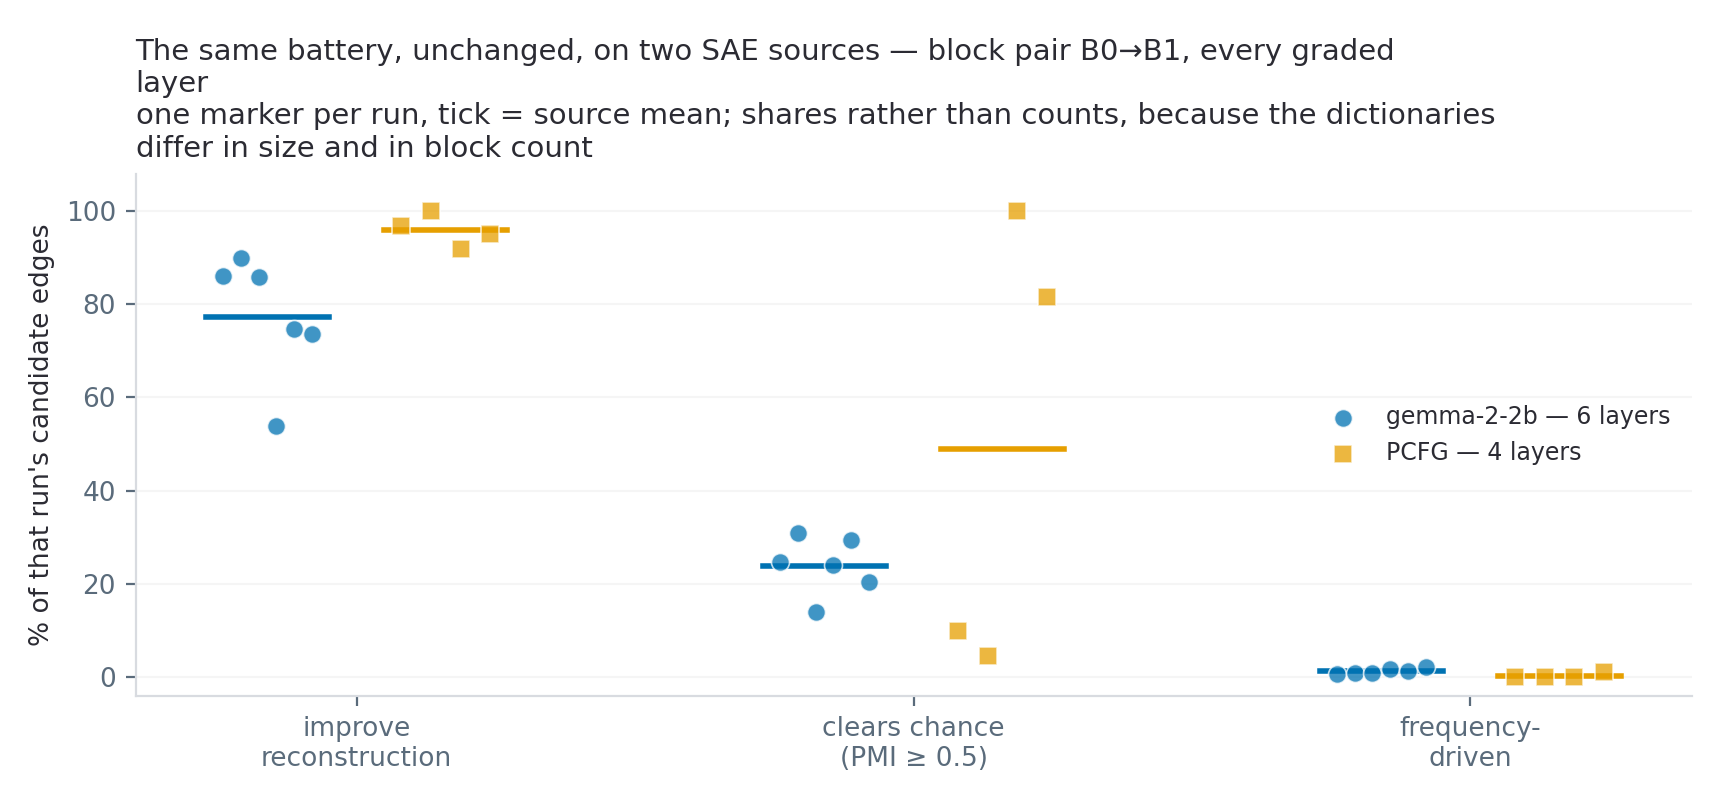
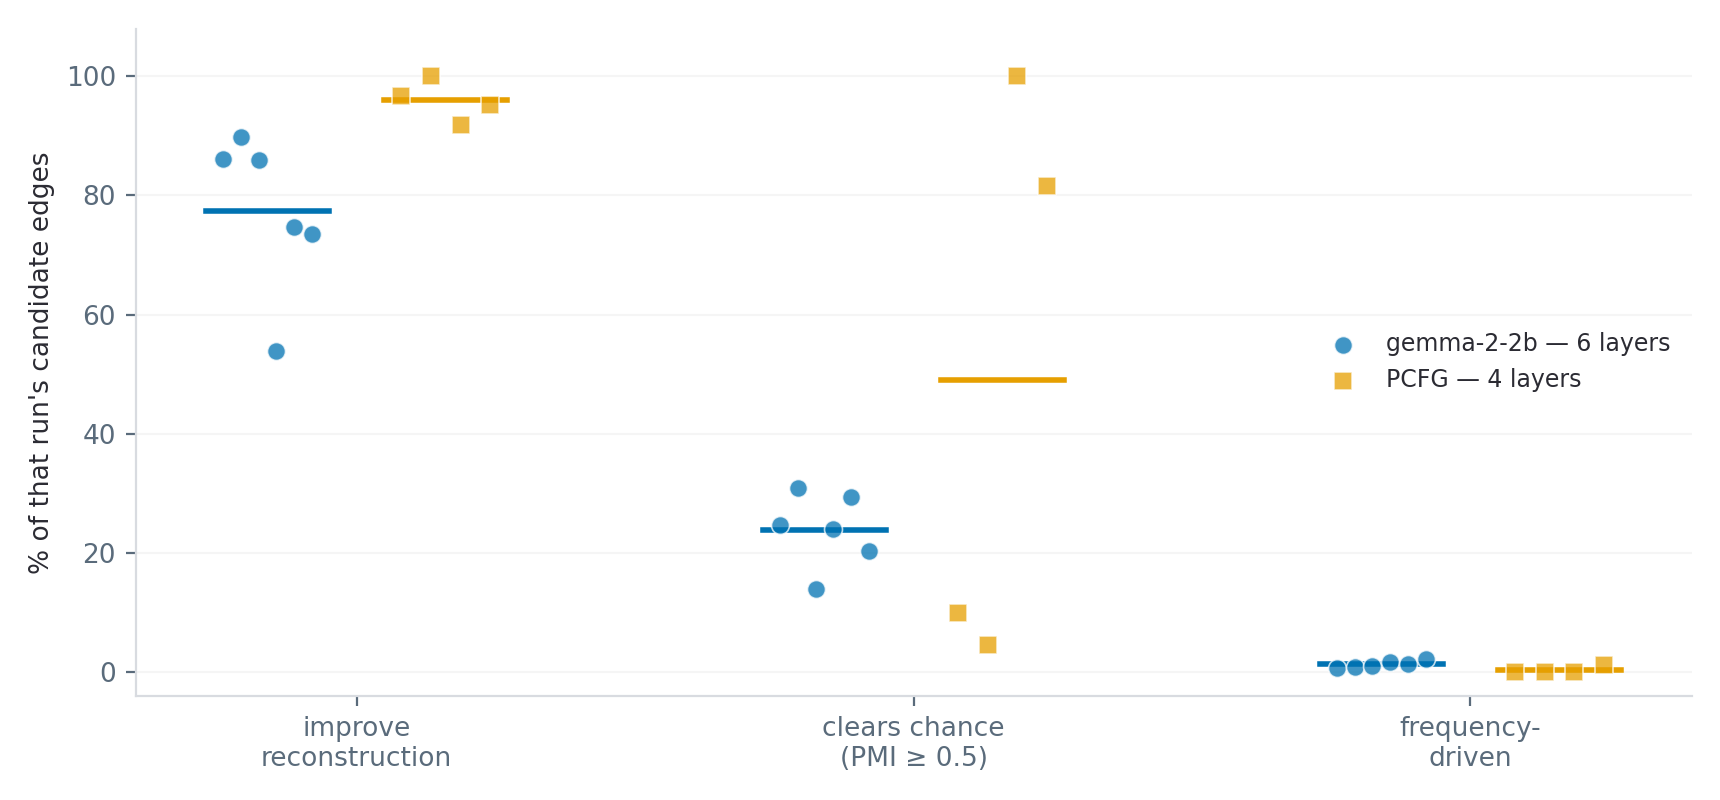
refactor(reporting): remove figure titles and improve plot layout
Update the reporting pipeline to align with new stylistic guidelines
requiring the removal of baked-in figure titles in favor of LaTeX
captions.

- Disable figure-level titles by default in `make_report_figures.py` to
  prevent redundancy with paper captions.
- Refactor `_finish` to allow optional `tight_layout` calls, preventing
  layout issues when manual text elements are present.
- Update `calibration_trained_toy_recovery` to use panel identifiers
  instead of descriptive titles.
- Improve the visualization of alignment metrics by adding a "violated"
  bar to provide better context for test results.
- Regenerate all paper figures to reflect these stylistic and data
  updates.

diff --git a/reporting/make_report_figures.py b/reporting/make_report_figures.py
@@ -110,13 +110,25 @@ def _pair(report, name):
     return next((p for p in report["pairs"] if p["pair"] == name), None)
 
 
+# Figure-level titles are OFF by default (--titles turns them on). The paper
+# carries every figure's message in its LaTeX caption, and a second copy baked
+# into the PNG reads as a machine-written caption above the human one -- the
+# exact habit the 2026-08-16 feedback asked us to drop. Panel-level titles and
+# axis labels stay: they are part of the plot, not a caption.
+TITLES = False
+
+
 def _title(ax_or_fig, head: str, sub: str = "", width: int = 96):
     """Left-aligned title, wrapped to the figure rather than trusting it to fit.
 
     Every overflowing title in the previous version was a long second line that
     matplotlib silently let run past the canvas edge, so the caption lost its
     qualifier -- the half a sentence that says what the number does NOT mean.
+    Returns the number of lines drawn; 0 when titles are disabled, so a layout
+    that reserves headroom for the title can reclaim it.
     """
+    if not TITLES:
+        return 0
     import textwrap
     lines = textwrap.wrap(head, width)
     if sub:
@@ -141,11 +153,14 @@ def _label_extremes(ax, xs, vals, fmt, color):
                     xytext=(0, 9), ha="center", fontsize=8, color=color)
 
 
-def _finish(fig, ax_or_axes, name: str) -> str:
+def _finish(fig, ax_or_axes, name: str, tight: bool = True) -> str:
     axes = ax_or_axes if isinstance(ax_or_axes, (list, np.ndarray)) else [ax_or_axes]
     for ax in np.ravel(axes):
         ax.spines[["top", "right"]].set_visible(False)
-    fig.tight_layout()
+    if tight:
+        # tight_layout ignores ax.text placed above the axes, so a figure that
+        # hangs panel headings there manages its own margins and passes False
+        fig.tight_layout()
     path = PAPER_DIR / f"{name}.png"
     fig.savefig(path, dpi=200)
     plt.close(fig)
@@ -437,23 +452,25 @@ def calibration_trained_toy_recovery(tt, align):
         ax.text(i, v + 0.15, str(v), ha="center", fontsize=10, color=INK)
     ax.set_ylabel("true edges")
     ax.set_ylim(0, max(tp, fn, fp) * 1.35 + 0.5)
-    _title(ax, f"Edge recovery — precision {tt['precision']:.2f}, recall {tt['recall']:.2f}",
-           f"the SAE learned {tt['n_recovered_features']}/{tt['n_features']} true features; every "
-           f"miss is an edge whose child it never learned", width=52)
+    # Panel identifiers, not captions: with two panels sharing a y-label the
+    # plot is ambiguous without them, so they stay even with --titles off.
+    ax.set_title("edge recovery", fontsize=10, loc="left", color=INK)
 
     ax = axes[1]
     if align:
-        ax.bar(["respected", "untestable"],
-               [align["n_respected"], len(align.get("untestable", []))],
-               color=[GOOD, NEUTRAL], width=0.5)
-        ax.text(0, align["n_respected"] + 0.12, str(align["n_respected"]),
-                ha="center", fontsize=10, color=INK)
+        # "violated" is the bar the test is ABOUT -- its zero must be visible,
+        # or the grey untestable bar next to the green one reads as a failure.
+        n_viol = align["n_testable"] - align["n_respected"]
+        bars = [("respected", align["n_respected"], GOOD),
+                ("violated", n_viol, CAT[3]),
+                ("untestable", len(align.get("untestable", [])), NEUTRAL)]
+        ax.bar([b[0] for b in bars], [b[1] for b in bars],
+               color=[b[2] for b in bars], width=0.55)
+        for i, (_, v, _) in enumerate(bars):
+            ax.text(i, v + 0.12, str(v), ha="center", fontsize=10, color=INK)
         ax.set_ylim(0, max(align["n_testable"], 1) * 1.4)
         ax.set_ylabel("true edges")
-        _title(ax, f"Nesting control — {align['n_respected']}/{align['n_testable']} testable edges "
-                   f"run early block → late",
-               f"mean block {align['mean_parent_block']:.1f} for parents, "
-               f"{align['mean_child_block']:.1f} for children", width=46)
+        ax.set_title("nesting control (early block → late)", fontsize=10, loc="left", color=INK)
     else:
         ax.axis("off")
         ax.text(0.5, 0.5, "block_tree_alignment.json absent\nrun validation.block_tree_alignment",
@@ -999,12 +1016,18 @@ def battery_questions_gemma(layers, second):
                 fontweight="bold", color=INK, va="top")
         ax.text(0, 1.19, "\n".join(textwrap.wrap(q, 38)), transform=ax.transAxes,
                 fontsize=7.3, color=MUTED, va="top", style="italic")
-    _title(fig, "The battery, question by question — gemma-2-2b, block pair B0→B1, "
-                "every graded layer",
-           "each panel is the question one metric asks and its measured answer; the questions "
-           "the edges pass are about quality, the ones they fail are about structure", width=120)
-    fig.subplots_adjust(top=0.82, hspace=0.85, wspace=0.34)
-    return _finish(fig, axes, "battery_questions_gemma")
+    lines = _title(fig, "The battery, question by question — gemma-2-2b, block pair B0→B1, "
+                   "every graded layer",
+                   "each panel is the question one metric asks and its measured answer; the "
+                   "questions the edges pass are about quality, the ones they fail are about "
+                   "structure", width=120)
+    # the per-panel question texts sit above each axes, so the top margin is
+    # for them; only shave extra room when a figure title is actually drawn.
+    # This figure owns its margins (tight=False): tight_layout cannot see the
+    # hanging texts and clips the first row's headings.
+    fig.subplots_adjust(top=0.84 if lines else 0.90, bottom=0.06, left=0.05,
+                        right=0.99, hspace=0.95, wspace=0.34)
+    return _finish(fig, axes, "battery_questions_gemma", tight=False)
 
 
 # ---------------------------------------------------------------------------
@@ -1829,8 +1852,12 @@ def main() -> int:
                          "level up) are always emitted after it")
     ap.add_argument("--twocolumn", action="store_true",
                     help="emit figure* full-width floats (needs a twocolumn class)")
+    ap.add_argument("--titles", action="store_true",
+                    help="bake the figure-level title/subtitle into each PNG; off by "
+                         "default because the paper's LaTeX captions carry that text")
     args = ap.parse_args()
     globals()["TWOCOLUMN"] = args.twocolumn
+    globals()["TITLES"] = args.titles
 
     if not args.list:
         PAPER_DIR.mkdir(parents=True, exist_ok=True)
